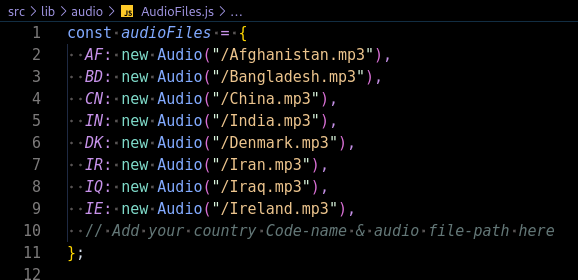
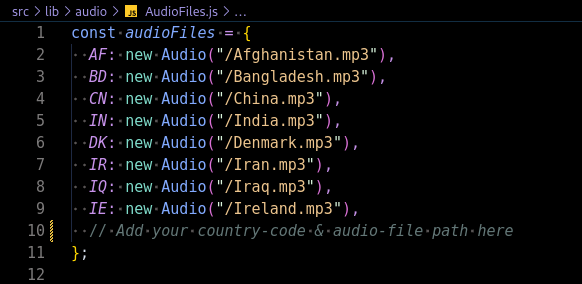
UPDATE: README.md guidance img

Changed region(s): [[0.0311, 0.0857, 0.9654, 1.0], [0.0, 0.0, 0.436, 0.0571], [0.1246, 0.8571, 0.1557, 0.9429]]

diff --git a/src/lib/audio/AudioFiles.js b/src/lib/audio/AudioFiles.js
@@ -7,7 +7,7 @@ const audioFiles = {
   IR: new Audio("/Iran.mp3"),
   IQ: new Audio("/Iraq.mp3"),
   IE: new Audio("/Ireland.mp3"),
-  // Add your country Code-name & audio file-path here
+  // Add your country-code & audio-file path here
 };
 
 export default audioFiles;
